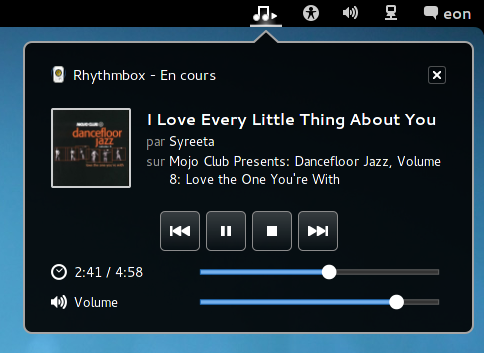
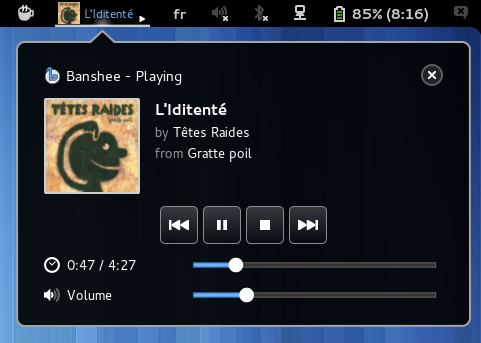
Update documentation

diff --git a/README.md b/README.md
@@ -8,15 +8,14 @@ in the GNOME Shell's volume menu by default.
 
 ## Screenshots
 
-By default, media players shows up in the volume menu:
+Volume menu integration, rating support for Banshee, Rhythmbox. Support of
+playlists in Banshee (MPRIS 2.1 playlist interface)
 
 ![Screenshot](https://github.com/eonpatapon/gnome-shell-extensions-mediaplayer/raw/master/data/mediaplayer2.png)
 
-Notice the support of playlists in Banshee (MPRIS 2.1 playlist interface).
-
 - - -
 
-But you can have the media players in a separate menu (see settings):
+Indicator menu on the right with custom status text and current album cover
 
 ![Screenshot](https://github.com/eonpatapon/gnome-shell-extensions-mediaplayer/raw/master/data/mediaplayer1.png)
 
@@ -28,6 +27,12 @@ You may also use the status icon to run your favorite media player if no player 
 
 The current track rating can also be displayed and changed depending of the
 player you are using (see the ```rating``` setting below).
+
+- - -
+
+Centered indicator with custom status text
+
+![Screenshot](https://github.com/eonpatapon/gnome-shell-extensions-mediaplayer/raw/master/data/mediaplayer3.png)
 
 - - -
 
@@ -74,9 +79,9 @@ Restart the shell and then enable the extension.
 
 All settings can be changed from within the `gnome-shell-extension-prefs` tool, or from the command line.
 
-  * **Show the extension in its own menu instead of the volume menu:** (default: true)
+  * **Position of the indicator:** (default: 'volume-menu')
 
-        gsettings set org.gnome.shell.extensions.mediaplayer volumemenu false
+        gsettings set org.gnome.shell.extensions.mediaplayer indicator-position 'center'|'right'|'volume-menu'
 
   * **Start the default media player by clicking on the status icon if no player is running:** (default: false)
 
@@ -85,7 +90,23 @@ All settings can be changed from within the `gnome-shell-extension-prefs` tool, 
     You can configure the default media player in GNOME System Settings, under *Details
     → Default Applications*.
 
-    Note: This setting has no effect if the extension is shown in the volume menu.
+    Note: This setting has only effect if indicator-position is 'center' or 'right'.
+
+  * **Indicator appearance:** (default: 'icon')
+
+        gsettings set org.gnome.shell.extensions.mediaplayer status-type 'icon'|'cover'
+
+    Note: This setting has only effect if indicator-position is 'center' or 'right'.
+
+  * **Indicator status text:** (default: empty)
+
+        gsettings set org.gnome.shell.extensions.mediaplayer status-text ' <span color="#76B0EC" font="9">%t</span>'
+
+    The status text can be formatted with the Pango syntax. %t, %a, %b are
+    replaced respectively by the current title, current artist and current
+    album playing.
+
+    Note: This setting has only effect if indicator-position is 'center' or 'right'.
 
   * **Show the volume control slider of the media player:** (default: false)
 
